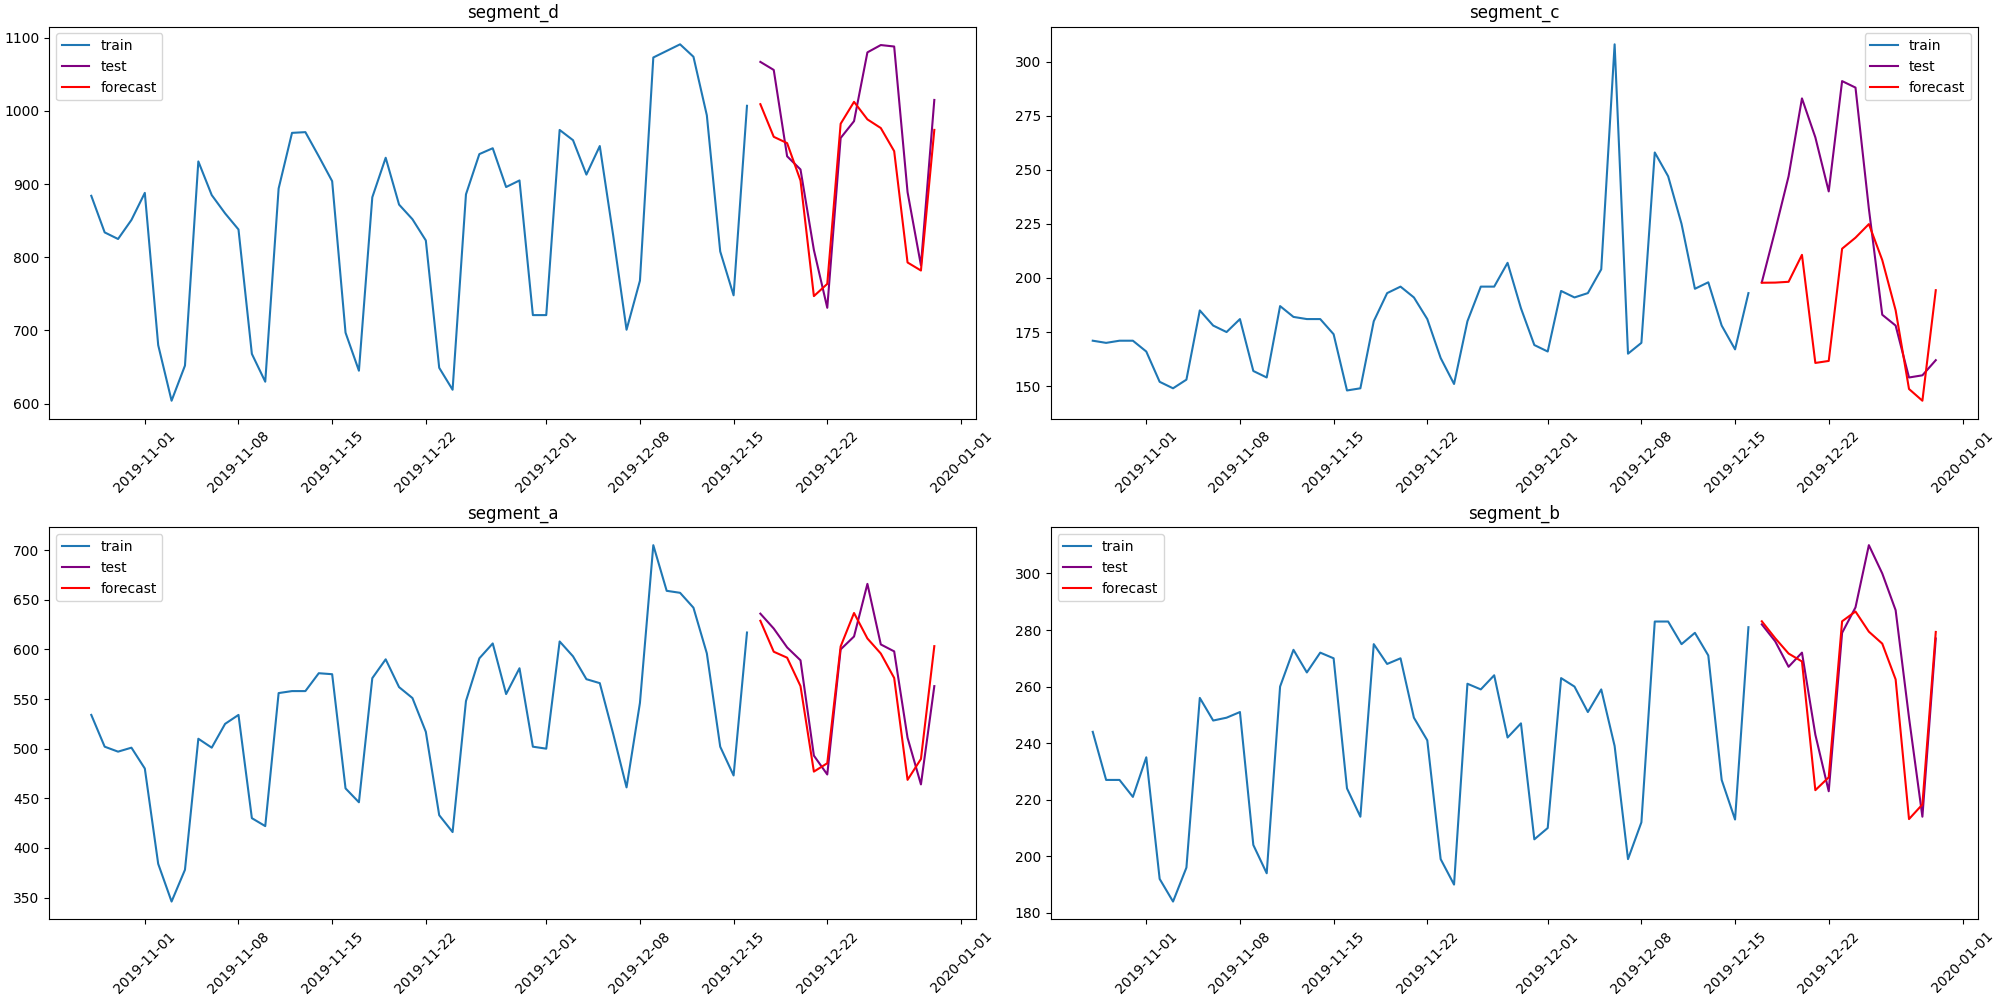
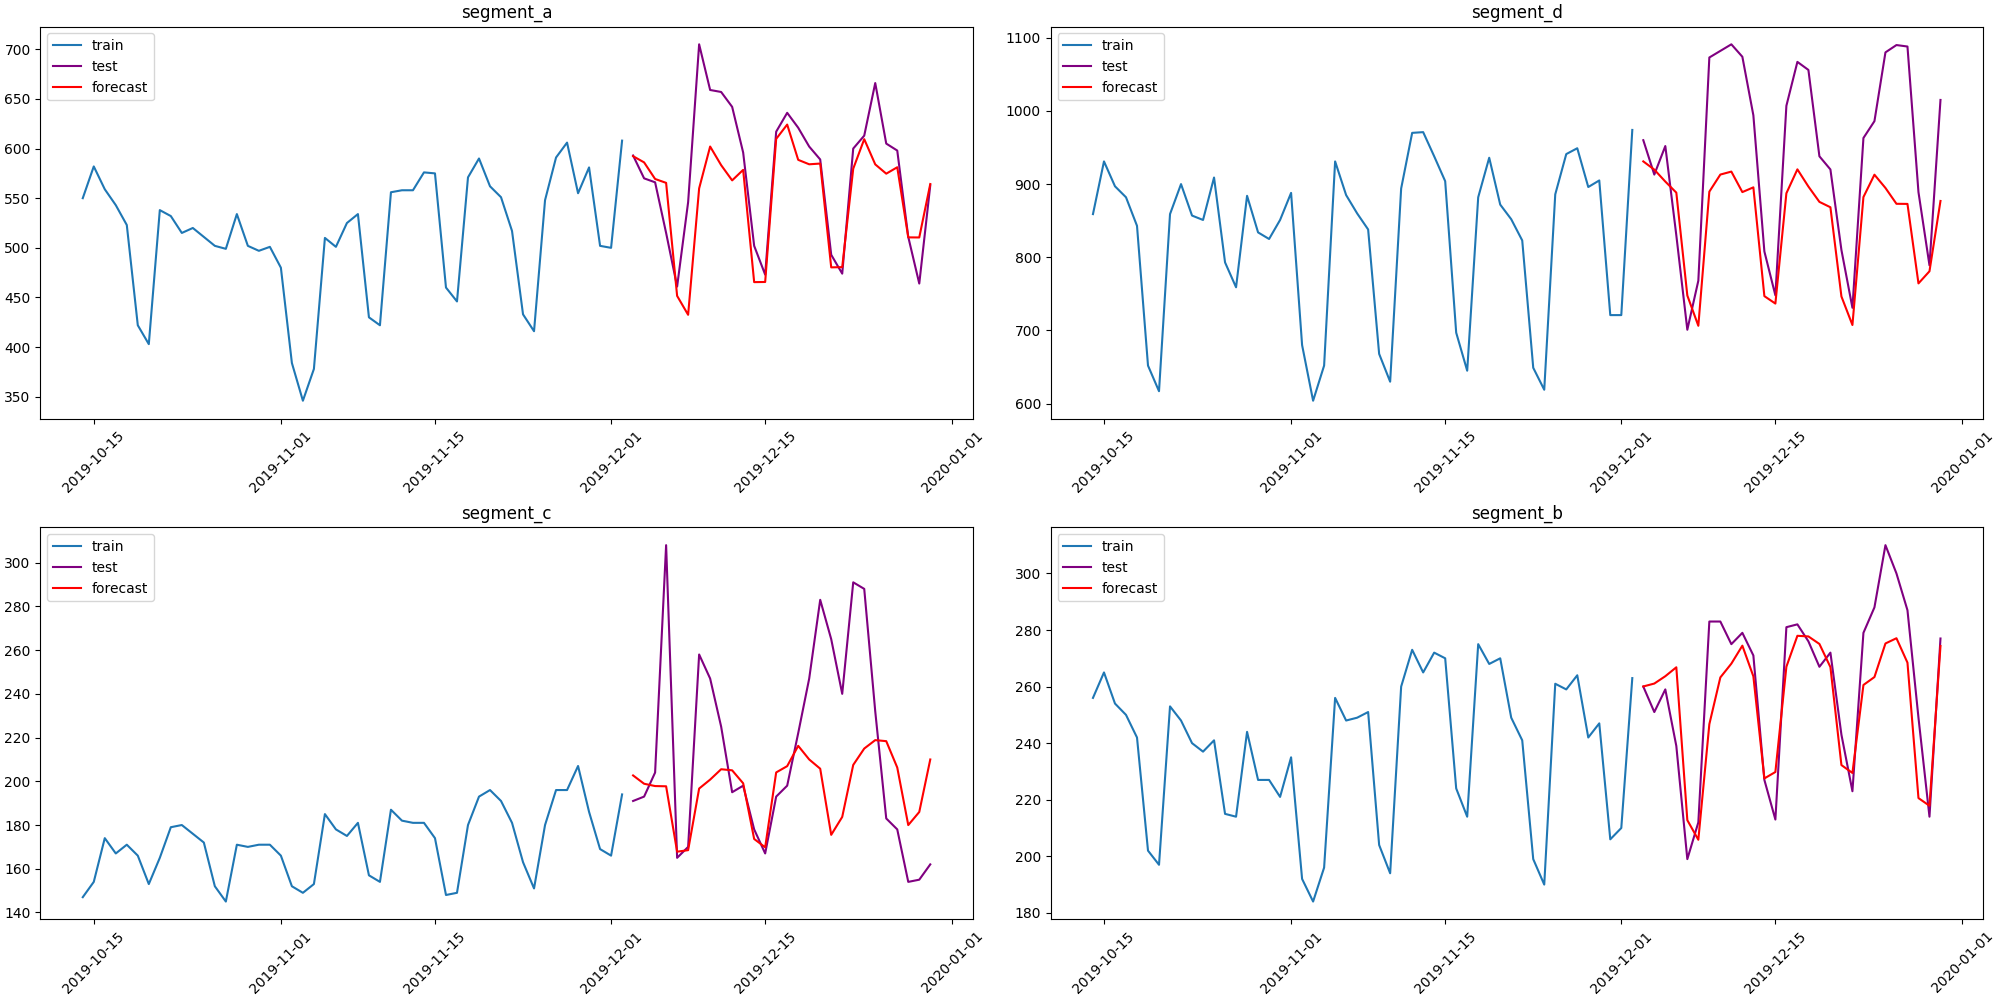
Update README.md by comments

diff --git a/README.md b/README.md
@@ -42,7 +42,86 @@ The library started as an internal product in our company -
 we use it in over 10+ projects now, so we often release updates. 
 Contributions are welcome - check our [Contribution Guide](https://github.com/tinkoff-ai/etna/blob/master/CONTRIBUTING.md).
 
+## Get started
 
+Let's load and prepare the data.
+```python
+import pandas as pd
+from etna.datasets import TSDataset
+
+# Read the data
+df = pd.read_csv("examples/data/example_dataset.csv")
+
+# Create a TSDataset
+df = TSDataset.to_dataset(df)
+ts = TSDataset(df, freq="D")
+
+# Choose a horizon
+HORIZON = 14
+
+# Make train/test split
+train_ts, test_ts = ts.train_test_split(test_size=HORIZON)
+```
+
+Define transformations and model:
+```python
+from etna.models import CatBoostModelMultiSegment
+from etna.transforms import DateFlagsTransform
+from etna.transforms import DensityOutliersTransform
+from etna.transforms import FourierTransform
+from etna.transforms import LagTransform
+from etna.transforms import SegmentEncoderTransform
+from etna.transforms import TimeSeriesImputerTransform
+
+# Prepare transforms
+transforms = [
+    DensityOutliersTransform(in_column="target", distance_coef=3.0),
+    TimeSeriesImputerTransform(in_column="target", strategy="forward_fill"),
+    LagTransform(in_column="target", lags=list(range(HORIZON, 70)), out_column="target_lag"),
+    DateFlagsTransform(
+        day_number_in_week=True,
+        day_number_in_month=True,
+        is_weekend=True,
+        week_number_in_month=True,
+        out_column="date_flag",
+    ),
+    FourierTransform(period=360.25, order=6, out_column="fourier"),
+    SegmentEncoderTransform(),
+]
+
+# Prepare model
+model = CatBoostModelMultiSegment()
+```
+
+Fit `Pipeline` and make a prediction:
+```python
+from etna.pipeline import Pipeline
+
+# Create and fit the pipeline
+pipeline = Pipeline(model=model, transforms=transforms, horizon=HORIZON)
+pipeline.fit(train_ts)
+
+# Make a forecast
+forecast_ts = pipeline.forecast()
+```
+
+Let's plot the results:
+```python
+from etna.analysis import plot_forecast
+
+plot_forecast(forecast_ts=forecast_ts, test_ts=test_ts, train_ts=train_ts, n_train_samples=50)
+```
+
+![](examples/assets/readme/get_started.png)
+
+Print the metric value across the segments:
+```python
+from etna.metrics import SMAPE
+
+metric = SMAPE(mode="macro")
+metric_value = metric(y_true=test_ts, y_pred=forecast_ts)
+>>> {'segment_a': 5.6195292519181965, 'segment_d': 10.713111075338606, 'segment_c': 14.730680046590775, 'segment_b': 4.9502053739563605}
+```
 
 ## Installation 
 
@@ -79,92 +158,7 @@ For example, `etna.models.ProphetModel` needs `prophet` extension and can't be u
 
 ETNA supports configuration files. It means that library will check that all the specified packages are installed prior to script start and NOT during runtime. 
 
-To set up a configuration for your project you should create a `.etna` file at the project's root. To see the available options look at [`Settings`](https://github.com/tinkoff-ai/etna/blob/master/etna/settings.py#L68). There is an [example](https://github.com/tinkoff-ai/etna/tree/master/examples/configs/.etna) of configuration file. 
-
-## Get started
-
-Let's load and prepare the data.
-```python
-import pandas as pd
-from etna.datasets import TSDataset
-
-# Read the data
-df = pd.read_csv("examples/data/example_dataset.csv")
-
-# Create a TSDataset
-df = TSDataset.to_dataset(df)
-ts = TSDataset(df, freq="D")
-
-# Choose a horizon
-HORIZON = 14
-
-# Make train/test split
-train_ts, test_ts = ts.train_test_split(test_size=HORIZON)
-```
-
-Define transformations and model:
-```python
-from etna.models import CatBoostModelMultiSegment
-from etna.transforms import DateFlagsTransform
-from etna.transforms import DensityOutliersTransform
-from etna.transforms import FourierTransform
-from etna.transforms import LagTransform
-from etna.transforms import LinearTrendTransform
-from etna.transforms import SegmentEncoderTransform
-from etna.transforms import TimeSeriesImputerTransform
-
-# Prepare transforms
-transforms = [
-    DensityOutliersTransform(in_column="target", distance_coef=3.0),
-    TimeSeriesImputerTransform(in_column="target", strategy="forward_fill"),
-    LinearTrendTransform(in_column="target"),
-    LagTransform(in_column="target", lags=list(range(HORIZON, 40)), out_column="target_lag"),
-    DateFlagsTransform(
-        day_number_in_week=True,
-        day_number_in_month=True,
-        is_weekend=True,
-        week_number_in_month=True,
-        out_column="date_flag",
-    ),
-    FourierTransform(period=360.25, order=10, out_column="fourier"),
-    SegmentEncoderTransform(),
-]
-
-# Prepare model
-model = CatBoostModelMultiSegment()
-```
-
-Fit `Pipeline` and make a prediction:
-```python
-from etna.pipeline import Pipeline
-
-# Create and fit the pipeline
-pipeline = Pipeline(model=model, transforms=transforms, horizon=HORIZON)
-pipeline.fit(train_ts)
-
-# Make a forecast
-forecast_ts = pipeline.forecast()
-```
-
-Let's plot the results:
-```python
-from etna.analysis import plot_forecast
-
-plot_forecast(forecast_ts=forecast_ts, test_ts=test_ts, train_ts=train_ts, n_train_samples=50)
-```
-
-![](examples/assets/readme/get_started.png)
-
-Print the metric value across the segments:
-```python
-from etna.metrics import SMAPE
-
-metric = SMAPE(mode="macro")
-metric_value = metric(y_true=test_ts, y_pred=forecast_ts)
->>> {'segment_c': 18.455484018755204, 'segment_d': 6.116330124415754, 'segment_a': 4.058916088137994, 'segment_b': 4.463429472539039}
-```
-
-
+To set up a configuration for your project you should create a `.etna` file at the project's root. To see the available options look at [`Settings`](https://github.com/tinkoff-ai/etna/blob/master/etna/settings.py#L68). There is an [example](https://github.com/tinkoff-ai/etna/tree/master/examples/configs/.etna) of configuration file.
 
 ## Tutorials
 
